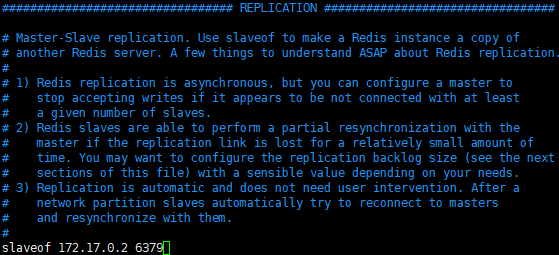
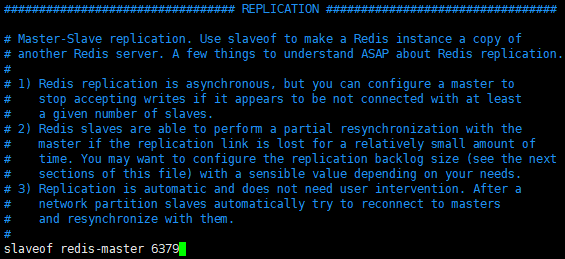
docs:Docker安装Redis集群

diff --git a/虚拟化技术/Docker/软件安装/03-Docker安装Redis集群.md b/虚拟化技术/Docker/软件安装/03-Docker安装Redis集群.md
@@ -56,16 +56,21 @@
     > ![info][info] 增加密码，访问Redis时需要上送密码，可使Redis更加安全
 
 6.  Docker运行Redis的master<br>
+    a. 拷贝运行脚本到特定目录<br>
+
+    > [start-container-master.sh](files/03/start-container-master.sh) -> /home/docker/redis/<br>
+
+    b. 设置执行权限<br>
 
     ```命令
-    > docker run -d \
-                 -p 6379:6379 \
-                 --name redis-master \
-                 --restart unless-stopped \
-                 -v /home/docker/redis/data/master/:/data \
-                 -v /home/docker/redis/etc/master.conf:/etc/redis/redis.conf \
-                 redis \
-                 redis-server /etc/redis/redis.conf
+    > chmod +x /home/docker/redis/*.sh
+    ```
+
+    c. 运行Redis的master<br>
+
+    ```命令
+    > cd /home/docker/redis/
+    > ./start-container-master.sh
     ```
 
 7.  打开防火墙端口<br>
@@ -93,21 +98,13 @@
     > sudo firewall-cmd --zone=public --list-all
     ```
 
-8.  Docker查看master的IP地址<br>
-
-    ```命令
-    > docker inspect --format '{{println .NetworkSettings.IPAddress}}' redis-master
-    ```
-
-    ![第8步](images/03_8_1.png)<br>
-
-9.  拷贝master.conf为slave.conf<br>
+8.  拷贝master.conf为slave.conf<br>
 
     ```命令
     > cp /home/docker/redis/etc/master.conf /home/docker/redis/etc/slave.conf
     ```
 
-10. 修改slave.conf<br>
+9. 修改slave.conf<br>
 
     ```命令
     > vim /home/docker/redis/etc/slave.conf
@@ -121,20 +118,25 @@
 
     ![第10步-b](images/03_10_b_1.png)<br>
 
-11. Docker运行Redis的slave<br>
+10. Docker运行Redis的slave<br>
+    a. 拷贝运行脚本到特定目录<br>
+
+    > [start-container-slave.sh](files/03/start-container-slave.sh) -> /home/docker/redis/<br>
+
+    b. 设置执行权限<br>
 
     ```命令
-    > docker run -d \
-                 -p 6380:6379 \
-                 --name redis-slave1 \
-                 --restart unless-stopped \
-                 -v /home/docker/redis/data/slave1/:/data \
-                 -v /home/docker/redis/etc/slave.conf:/etc/redis/redis.conf \
-                 redis \
-                 redis-server /etc/redis/redis.conf
+    > chmod +x /home/docker/redis/*.sh
     ```
 
-12. 打开防火墙端口<br>
+    c. 运行Redis的slave<br>
+
+    ```命令
+    > cd /home/docker/redis/
+    > ./start-container-slave.sh
+    ```
+
+11. 打开防火墙端口<br>
     a. 查看当前活动防火墙策略<br>
 
     ```命令
